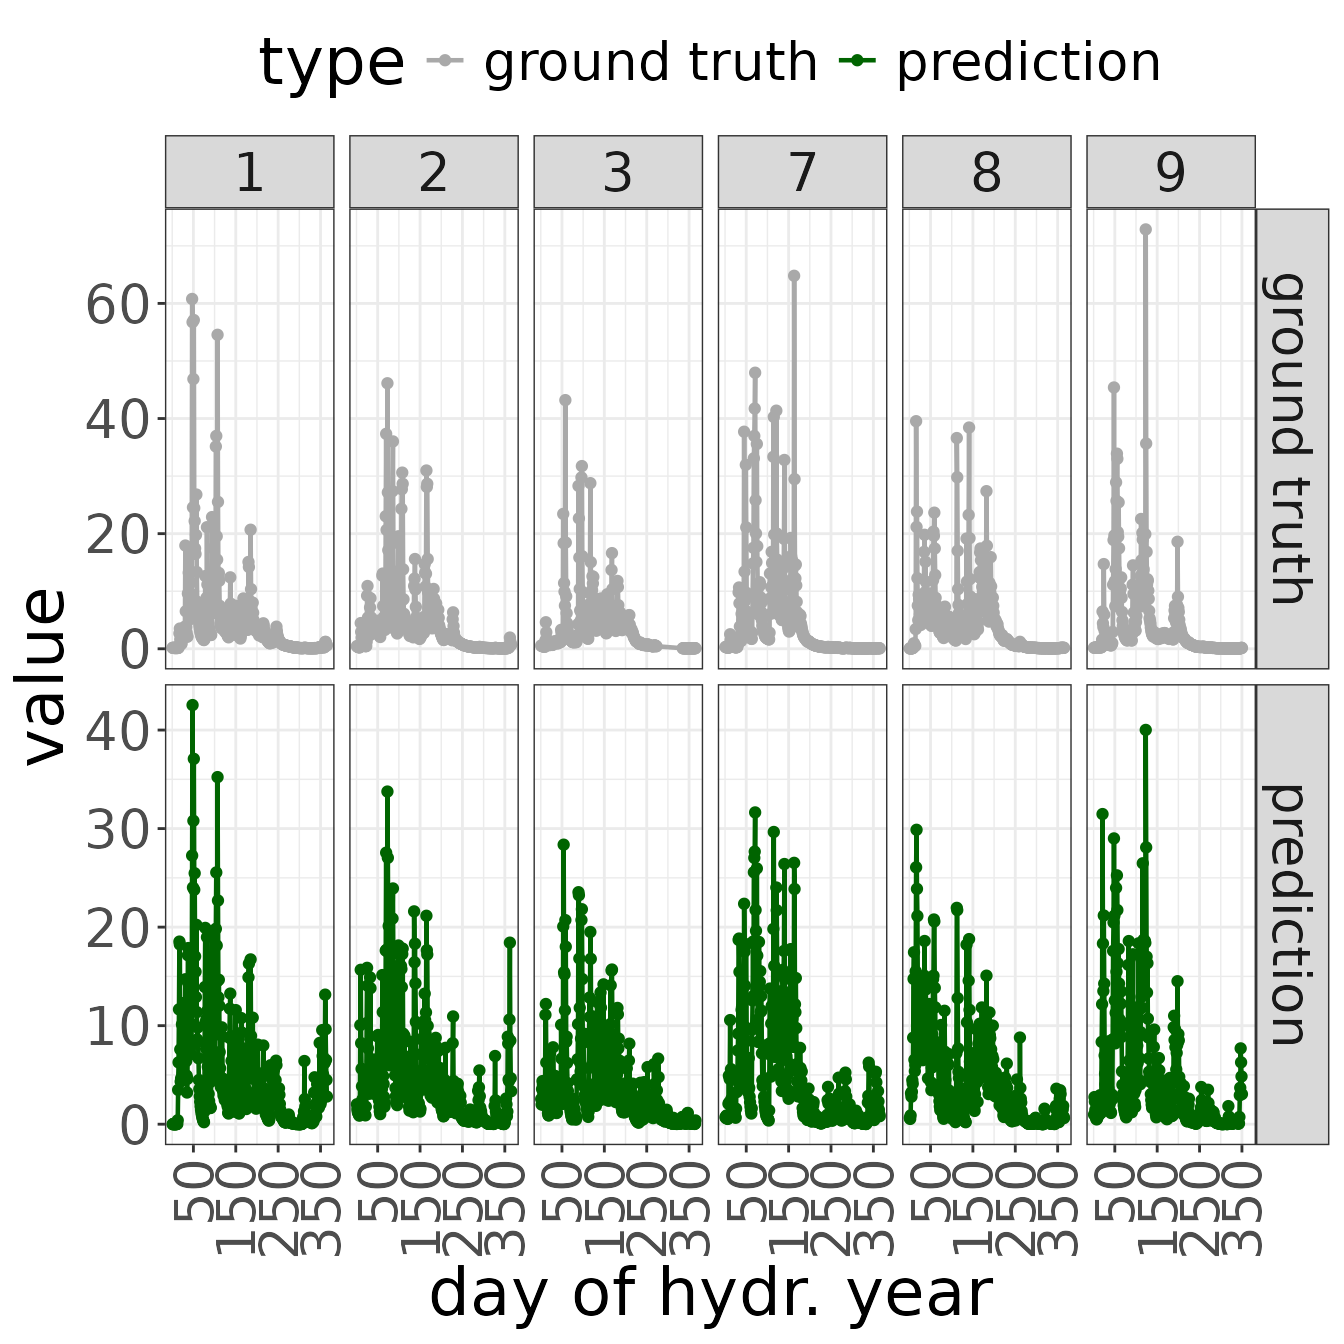
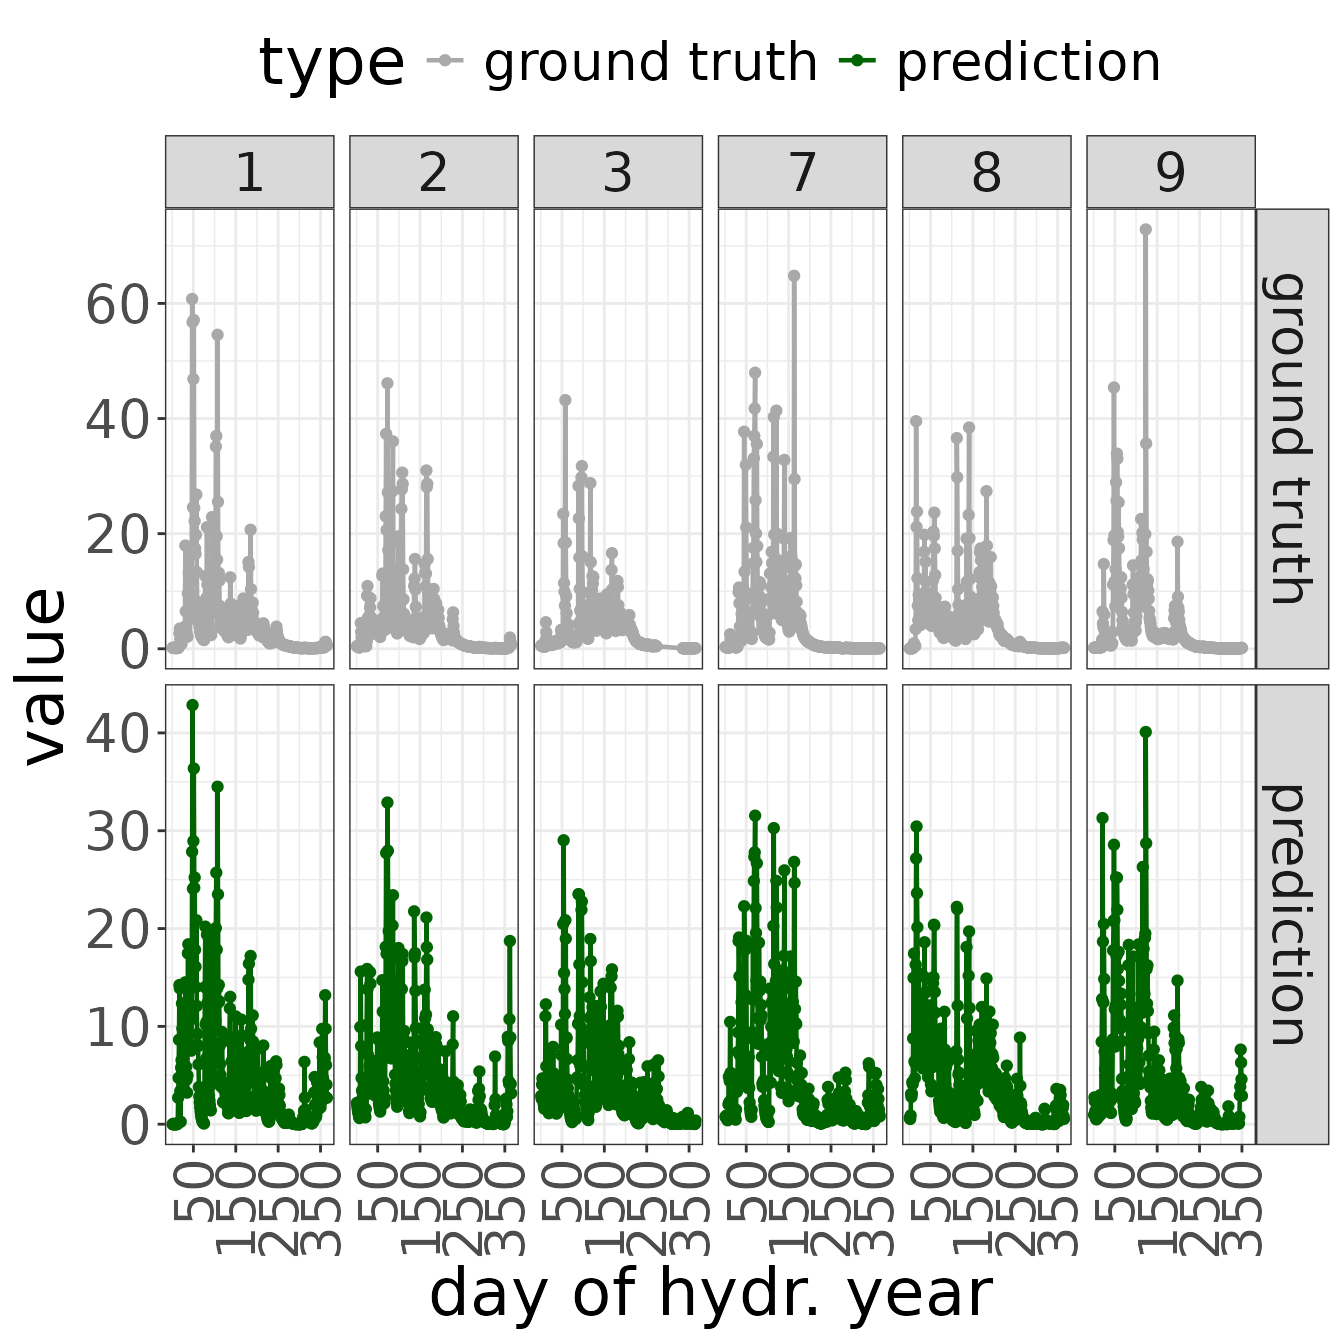
Deploying to gh-pages from @ sschrunner/SlidingWindowReg@486ebfbe78ceb71b57d9b9b1f23f5c2177520320 🚀

diff --git a/articles/sampleExperiment.html b/articles/sampleExperiment.html
@@ -155,6 +155,16 @@ procedure to <tt>FALSE</tt>.</p>
 <span><span class="co">## <span style="color: #555555;">This warning is displayed once every 8 hours.</span></span></span>
 <span><span class="co">## <span style="color: #555555;">Call `lifecycle::last_lifecycle_warnings()` to see where this warning was</span></span></span>
 <span><span class="co">## <span style="color: #555555;">generated.</span></span></span></code></pre>
+<p>The optimizer GENOUD (Genetic optimization using derivatives) is used
+by default. Alternatively, the package supports derivative-free
+optimization as well: the <tt>algorithm</tt> argument can be set to
+<tt>algorithm = “BOBYQA”</tt>.</p>
+<div class="sourceCode" id="cb10"><pre class="downlit sourceCode r">
+<code class="sourceCode R"><span><span class="va">mod_BOBYQA</span> <span class="op">&lt;-</span> <span class="fu"><a href="../reference/trainSWR.html">trainSWR</a></span><span class="op">(</span><span class="va">sampleWatershed</span><span class="op">$</span><span class="va">rain</span><span class="op">[</span><span class="va">train_inds</span><span class="op">]</span>,</span>
+<span>                <span class="va">sampleWatershed</span><span class="op">$</span><span class="va">gauge</span><span class="op">[</span><span class="va">train_inds</span><span class="op">]</span>,</span>
+<span>                iter <span class="op">=</span> <span class="fl">3</span>,</span>
+<span>                param_selection <span class="op">=</span> <span class="st">"best_bic"</span>,</span>
+<span>                algorithm <span class="op">=</span> <span class="st">"BOBYQA"</span><span class="op">)</span></span></code></pre></div>
 <p>%## Parallelization</p>
 <p>%Model parallelization is implemented between the model runs, while
 iterations (incrementally adding windows in each iterations) run in a
@@ -177,15 +187,14 @@ determine the predictive performance on test sets.</p>
 </h3>
 <p>A first overview on the model results can be obtained by printing a
 model summary:</p>
-<div class="sourceCode" id="cb10"><pre class="downlit sourceCode r">
+<div class="sourceCode" id="cb11"><pre class="downlit sourceCode r">
 <code class="sourceCode R"><span><span class="fu"><a href="https://rdrr.io/r/base/summary.html" class="external-link">summary</a></span><span class="op">(</span><span class="va">mod</span><span class="op">)</span></span></code></pre></div>
-<pre><code><span><span class="co">## SlidingWindowReg (SWR) model object with k = 3 windows</span></span>
+<pre><code><span><span class="co">## SlidingWindowReg (SWR) model object with k = 2 windows</span></span>
 <span><span class="co">## </span></span>
 <span><span class="co">## | window| delta| sigma| beta|</span></span>
 <span><span class="co">## |------:|-----:|-----:|----:|</span></span>
-<span><span class="co">## |      1|  1.23|  0.20| 0.41|</span></span>
-<span><span class="co">## |      2|  2.08|  1.96| 0.31|</span></span>
-<span><span class="co">## |      3|  9.64|  4.51| 0.16|</span></span></code></pre>
+<span><span class="co">## |      1|  0.17|  6.28| 0.41|</span></span>
+<span><span class="co">## |      2|  1.28|  0.22| 0.47|</span></span></code></pre>
 <p>In specific, the main model parameters are stored as:</p>
 <ul>
 <li>a matrix characterizing the location and size of the windows (column
@@ -193,42 +202,33 @@ model summary:</p>
 variance)</li>
 <li>a vector of regression coefficients</li>
 </ul>
-<div class="sourceCode" id="cb12"><pre class="downlit sourceCode r">
+<div class="sourceCode" id="cb13"><pre class="downlit sourceCode r">
 <code class="sourceCode R"><span><span class="co"># window parameters</span></span>
 <span><span class="fu"><a href="https://rdrr.io/r/base/print.html" class="external-link">print</a></span><span class="op">(</span><span class="va">mod</span><span class="op">$</span><span class="va">param</span><span class="op">)</span></span></code></pre></div>
-<pre><code><span><span class="co">##         delta     sigma</span></span>
-<span><span class="co">## [1,] 1.227253 0.1996354</span></span>
-<span><span class="co">## [2,] 2.076937 1.9587665</span></span>
-<span><span class="co">## [3,] 9.637743 4.5139426</span></span></code></pre>
-<div class="sourceCode" id="cb14"><pre class="downlit sourceCode r">
+<pre><code><span><span class="co">##          delta     sigma</span></span>
+<span><span class="co">## [1,] 0.1666667 6.2787582</span></span>
+<span><span class="co">## [2,] 1.2816116 0.2221428</span></span></code></pre>
+<div class="sourceCode" id="cb15"><pre class="downlit sourceCode r">
 <code class="sourceCode R"><span><span class="co"># regression parameters</span></span>
 <span><span class="fu"><a href="https://rdrr.io/r/base/print.html" class="external-link">print</a></span><span class="op">(</span><span class="va">mod</span><span class="op">$</span><span class="va">mix</span><span class="op">)</span></span></code></pre></div>
-<pre><code><span><span class="co">## [1] 0.4142523 0.3094873 0.1561027</span></span></code></pre>
+<pre><code><span><span class="co">## [1] 0.4089494 0.4650226</span></span></code></pre>
 <p>In order to visualize the estimated windows, a kernel plot is
 available in <tt>SlidingWindowReg</tt>:</p>
-<div class="sourceCode" id="cb16"><pre class="downlit sourceCode r">
+<div class="sourceCode" id="cb17"><pre class="downlit sourceCode r">
 <code class="sourceCode R"><span><span class="fu"><a href="https://rdrr.io/r/stats/coef.html" class="external-link">coef</a></span><span class="op">(</span><span class="va">mod</span><span class="op">)</span></span></code></pre></div>
-<pre><code><span><span class="co">##                                                                       </span></span>
-<span><span class="co">## kernel1 0.000000e+00 0.0000000000 0.0000000000 0.0000000000 0.00000000</span></span>
-<span><span class="co">## kernel2 0.000000e+00 0.0000000000 0.0000000000 0.0000000000 0.00000000</span></span>
-<span><span class="co">## kernel3 9.018427e-05 0.0001775819 0.0003329947 0.0005946305 0.00101118</span></span>
-<span><span class="co">##                                                                               </span></span>
-<span><span class="co">## kernel1 0.000000000 0.000000000 0.00000000 0.000000000 0.000000000 0.000000000</span></span>
-<span><span class="co">## kernel2 0.000000000 0.000000000 0.00000000 0.000000000 0.000000000 0.000000000</span></span>
-<span><span class="co">## kernel3 0.001637499 0.002525256 0.00370853 0.005186452 0.006907344 0.008760406</span></span>
-<span><span class="co">##                                                                           </span></span>
-<span><span class="co">## kernel1 0.00000000 0.00000000 0.00000000 0.0000000 0.00000000 0.0000000000</span></span>
-<span><span class="co">## kernel2 0.00000000 0.00000000 0.00000000 0.0000000 0.00000000 0.0007842645</span></span>
-<span><span class="co">## kernel3 0.01058059 0.01216937 0.01332904 0.0139028 0.01380951 0.0130625202</span></span>
-<span><span class="co">##                                                                   -3</span></span>
-<span><span class="co">## kernel1 0.000000000 0.000000000 0.000000000 0.000000000 3.780855e-11</span></span>
-<span><span class="co">## kernel2 0.003129783 0.009674398 0.023166295 0.042979797 6.178533e-02</span></span>
-<span><span class="co">## kernel3 0.011766529 0.010093513 0.008245346 0.006414279 4.751811e-03</span></span>
-<span><span class="co">##                  -2          -1            0</span></span>
-<span><span class="co">## kernel1 0.035598519 0.378597904 5.583595e-05</span></span>
-<span><span class="co">## kernel2 0.068824419 0.059407692 3.973529e-02</span></span>
-<span><span class="co">## kernel3 0.003352298 0.002252155 1.440873e-03</span></span></code></pre>
-<div class="sourceCode" id="cb18"><pre class="downlit sourceCode r">
+<pre><code><span><span class="co">##                  -20          -19          -18         -17         -16</span></span>
+<span><span class="co">## kernel1 0.0003298943 0.0005381571 0.0008559532 0.001327387 0.002007022</span></span>
+<span><span class="co">## kernel2 0.0000000000 0.0000000000 0.0000000000 0.000000000 0.000000000</span></span>
+<span><span class="co">##                 -15        -14         -13         -12       -11        -10</span></span>
+<span><span class="co">## kernel1 0.002958784 0.00425286 0.005960131 0.008143992 0.0108499 0.01409357</span></span>
+<span><span class="co">## kernel2 0.000000000 0.00000000 0.000000000 0.000000000 0.0000000 0.00000000</span></span>
+<span><span class="co">##                 -9         -8         -7        -6         -5         -4</span></span>
+<span><span class="co">## kernel1 0.01784938 0.02204104 0.02653676 0.0311509 0.03565335 0.03978661</span></span>
+<span><span class="co">## kernel2 0.00000000 0.00000000 0.00000000 0.0000000 0.00000000 0.00000000</span></span>
+<span><span class="co">##                   -3         -2         -1           0</span></span>
+<span><span class="co">## kernel1 4.328929e-02 0.04592308 0.04749943 0.047901900</span></span>
+<span><span class="co">## kernel2 9.629576e-09 0.07569607 0.38922563 0.000100905</span></span></code></pre>
+<div class="sourceCode" id="cb19"><pre class="downlit sourceCode r">
 <code class="sourceCode R"><span><span class="fu"><a href="https://rdrr.io/r/graphics/plot.default.html" class="external-link">plot</a></span><span class="op">(</span><span class="va">mod</span>, include_text <span class="op">=</span> <span class="cn">FALSE</span><span class="op">)</span></span></code></pre></div>
 <p><img src="sampleExperiment_files/figure-html/evaluate_param_plot-1.png" width="480" style="display: block; margin: auto;"></p>
 </div>
@@ -238,14 +238,14 @@ available in <tt>SlidingWindowReg</tt>:</p>
 <p>To assess its predictive performance, we evaluate the model on the
 test set. For this purpose, we compute the root mean squared error
 (RMSE) and further evaluation metrics:</p>
-<div class="sourceCode" id="cb19"><pre class="downlit sourceCode r">
+<div class="sourceCode" id="cb20"><pre class="downlit sourceCode r">
 <code class="sourceCode R"><span><span class="va">pred_on_test</span> <span class="op">&lt;-</span> <span class="fu"><a href="https://rdrr.io/r/stats/predict.html" class="external-link">predict</a></span><span class="op">(</span><span class="va">mod</span>, </span>
 <span>                        newdata <span class="op">=</span> <span class="va">sampleWatershed</span><span class="op">$</span><span class="va">rain</span><span class="op">[</span><span class="op">-</span><span class="va">train_inds</span><span class="op">]</span><span class="op">)</span></span>
 <span></span>
 <span><span class="fu"><a href="https://rdrr.io/r/base/print.html" class="external-link">print</a></span><span class="op">(</span><span class="fu"><a href="../reference/eval_all.html">eval_all</a></span><span class="op">(</span><span class="va">pred_on_test</span>, </span>
 <span>               <span class="va">sampleWatershed</span><span class="op">$</span><span class="va">gauge</span><span class="op">[</span><span class="op">-</span><span class="va">train_inds</span><span class="op">]</span><span class="op">)</span><span class="op">)</span></span></code></pre></div>
-<pre><code><span><span class="co">##       rmse     nrmse        r2       nse       kge</span></span>
-<span><span class="co">## 1 3.347096 0.8882189 0.7254756 0.7254756 0.7442794</span></span></code></pre>
+<pre><code><span><span class="co">##      rmse     nrmse        r2       nse       kge</span></span>
+<span><span class="co">## 1 3.34196 0.8868558 0.7263176 0.7263176 0.7500152</span></span></code></pre>
 <p>As a next step, we generate a plot demonstrating</p>
 <ul>
 <li>the input time series,</li>
@@ -254,7 +254,7 @@ test set. For this purpose, we compute the root mean squared error
 </ul>
 <p>The plot demonstrates the first 3 and last 3 hydrological years (in
 this case, years 1-3 and 7-9 are displayed).</p>
-<div class="sourceCode" id="cb21"><pre class="downlit sourceCode r">
+<div class="sourceCode" id="cb22"><pre class="downlit sourceCode r">
 <code class="sourceCode R"><span><span class="fu"><a href="https://rdrr.io/r/graphics/plot.default.html" class="external-link">plot</a></span><span class="op">(</span><span class="va">mod</span>, </span>
 <span>     type <span class="op">=</span> <span class="st">"prediction"</span>,</span>
 <span>     reference <span class="op">=</span> <span class="va">sampleWatershed</span><span class="op">$</span><span class="va">gauge</span><span class="op">[</span><span class="op">-</span><span class="va">train_inds</span><span class="op">]</span>,</span>

diff --git a/reference/trainSWR.html b/reference/trainSWR.html
@@ -56,7 +56,8 @@
 <span>  log <span class="op">=</span> <span class="cn">FALSE</span>,</span>
 <span>  <span class="va">parallel</span>,</span>
 <span>  return <span class="op">=</span> <span class="st">"best"</span>,</span>
-<span>  param_selection <span class="op">=</span> <span class="st">"best_bic"</span></span>
+<span>  param_selection <span class="op">=</span> <span class="st">"best_bic"</span>,</span>
+<span>  algorithm <span class="op">=</span> <span class="st">"GENOUD"</span></span>
 <span><span class="op">)</span></span></code></pre></div>
     </div>
 
@@ -93,15 +94,28 @@
 <dt>param_selection</dt>
 <dd><p>either "max" (maximum number of windows), or "best_rmse", "best_aic", or "best_bic" to optimize RMSE, AIC, or BIC, respectively</p></dd>
 
+
+<dt>algorithm</dt>
+<dd><p>either "GENOUD" (genetic optimization using derivatives), or "BOBYQA" (bound optimization by quadratic approximation)</p></dd>
+
 </dl></div>
+    <div class="section level2">
+    <h2 id="value">Value<a class="anchor" aria-label="anchor" href="#value"></a></h2>
+    
+
+<p>an object of type <code>SWR</code> model</p>
+    </div>
     <div class="section level2">
     <h2 id="details">Details<a class="anchor" aria-label="anchor" href="#details"></a></h2>
     <p>The training procedure implements an iterative algorithm described in (Schrunner et al. 2023)
 . A new window is added in each iteration, hence the number of windows equals to the iteration counter.
 Input and output time series are provided in <code>ts_input</code> and <code>ts_output</code>, respectively. Both are required to have equal lengths.
-The optimization is performed using the BOBYQA algorithm (Powell 2009)
+The optimization is performed using the GENOUD algorithm (Mebane Jr. and Sekhon 2011)
+, implemented in <code>rgenoud</code> (Mebane Jr. and Sekhon 2023)
+, or alternatively using the BOBYQA algorithm (Powell 2009)
 , implemented in <code>nloptr</code> (Johnson 2021)
-. As training hyperparameter, <code>iter</code> indicates the number of iterations, which equals to the maximum number of windows selected by the model.
+.
+As training hyperparameter, <code>iter</code> indicates the number of iterations, which equals to the maximum number of windows selected by the model.
 Parameters <code>return</code> and <code>param_selection</code> indicate which criterion should be used to determine the number of windows; option are: <code>return="all"</code> (no hyperparameter selection) or <code>return="best"</code>, which allows one of the following options:</p><ul><li><p><code>param_selection="best_aic"</code>: select model with lowest AIC,</p></li>
 <li><p><code>param_selection="best_bic"</code>: select model with lowest BIC,</p></li>
 <li><p><code>param_selection="best_rmse"</code>: select model with lowest RMSE.
@@ -111,7 +125,11 @@ Arguments <code>runs</code>, <code>parallel</code> are deprecated and should not
     <h2 id="references">References<a class="anchor" aria-label="anchor" href="#references"></a></h2>
     <p>Johnson SG (2021).
 <em>The NLopt nonlinear-optimization package</em>.
-v2.7.1, <a href="http://github.com/stevengj/nlopt" class="external-link">http://github.com/stevengj/nlopt</a>.<br><br> Powell MJ (2009).
+v2.7.1, <a href="http://github.com/stevengj/nlopt" class="external-link">http://github.com/stevengj/nlopt</a>.<br><br> Mebane Jr. W, Sekhon JS (2011).
+“Genetic Optimization Using Derivatives: The rgenoud package for R.”
+<em>Journal of Statistical Software, 42(11): 1-26.</em>, <b>42(11)</b>.<br><br> Mebane Jr. W, Sekhon JS (2023).
+<em>R Version of GENetic Optimization Using Derivatives</em>.
+v5.9-0.10, <a href="https://github.com/JasjeetSekhon/rgenoud" class="external-link">https://github.com/JasjeetSekhon/rgenoud</a>.<br><br> Powell MJ (2009).
 “The BOBYQA algorithm for bound constrained optimization without derivatives.”
 <em>Cambridge NA Report NA2009/06, University of Cambridge, Cambridge</em>, <b>26</b>.<br><br> Schrunner S, Janssen J, Jenul A, Cao J, Ameli AA, Welch WJ (2023).
 “A Gaussian Sliding Windows Regression Model for Hydrological Inference.”
@@ -140,8 +158,8 @@ arXiv.org (preprint).
 <span class="r-out co"><span class="r-pr">#&gt;</span> </span>
 <span class="r-out co"><span class="r-pr">#&gt;</span> | window| delta| sigma| beta|</span>
 <span class="r-out co"><span class="r-pr">#&gt;</span> |------:|-----:|-----:|----:|</span>
-<span class="r-out co"><span class="r-pr">#&gt;</span> |      1|  0.58|  0.09| 0.62|</span>
-<span class="r-out co"><span class="r-pr">#&gt;</span> |      2|  3.31|  1.93| 0.29|</span>
+<span class="r-out co"><span class="r-pr">#&gt;</span> |      1|  0.17| 21.28| 0.36|</span>
+<span class="r-out co"><span class="r-pr">#&gt;</span> |      2|  0.86|  0.36| 0.67|</span>
 <span class="r-out co"><span class="r-pr">#&gt;</span> </span>
 </code></pre></div>
     </div>

diff --git a/index.html b/index.html
@@ -104,14 +104,15 @@
 <li>ggplot2,</li>
 <li>hydroGOF,</li>
 <li>knitr,</li>
+<li>lifecycle,</li>
 <li>methods,</li>
 <li>nloptr,</li>
+<li>rgenoud,</li>
 <li>parallel,</li>
 <li>pbapply,</li>
 <li>rdist,</li>
 <li>Rdpack (&gt;= 0.7),</li>
-<li>stats,</li>
-<li>lifecycle</li>
+<li>stats</li>
 </ul>
 </div>
 <div class="section level2">
